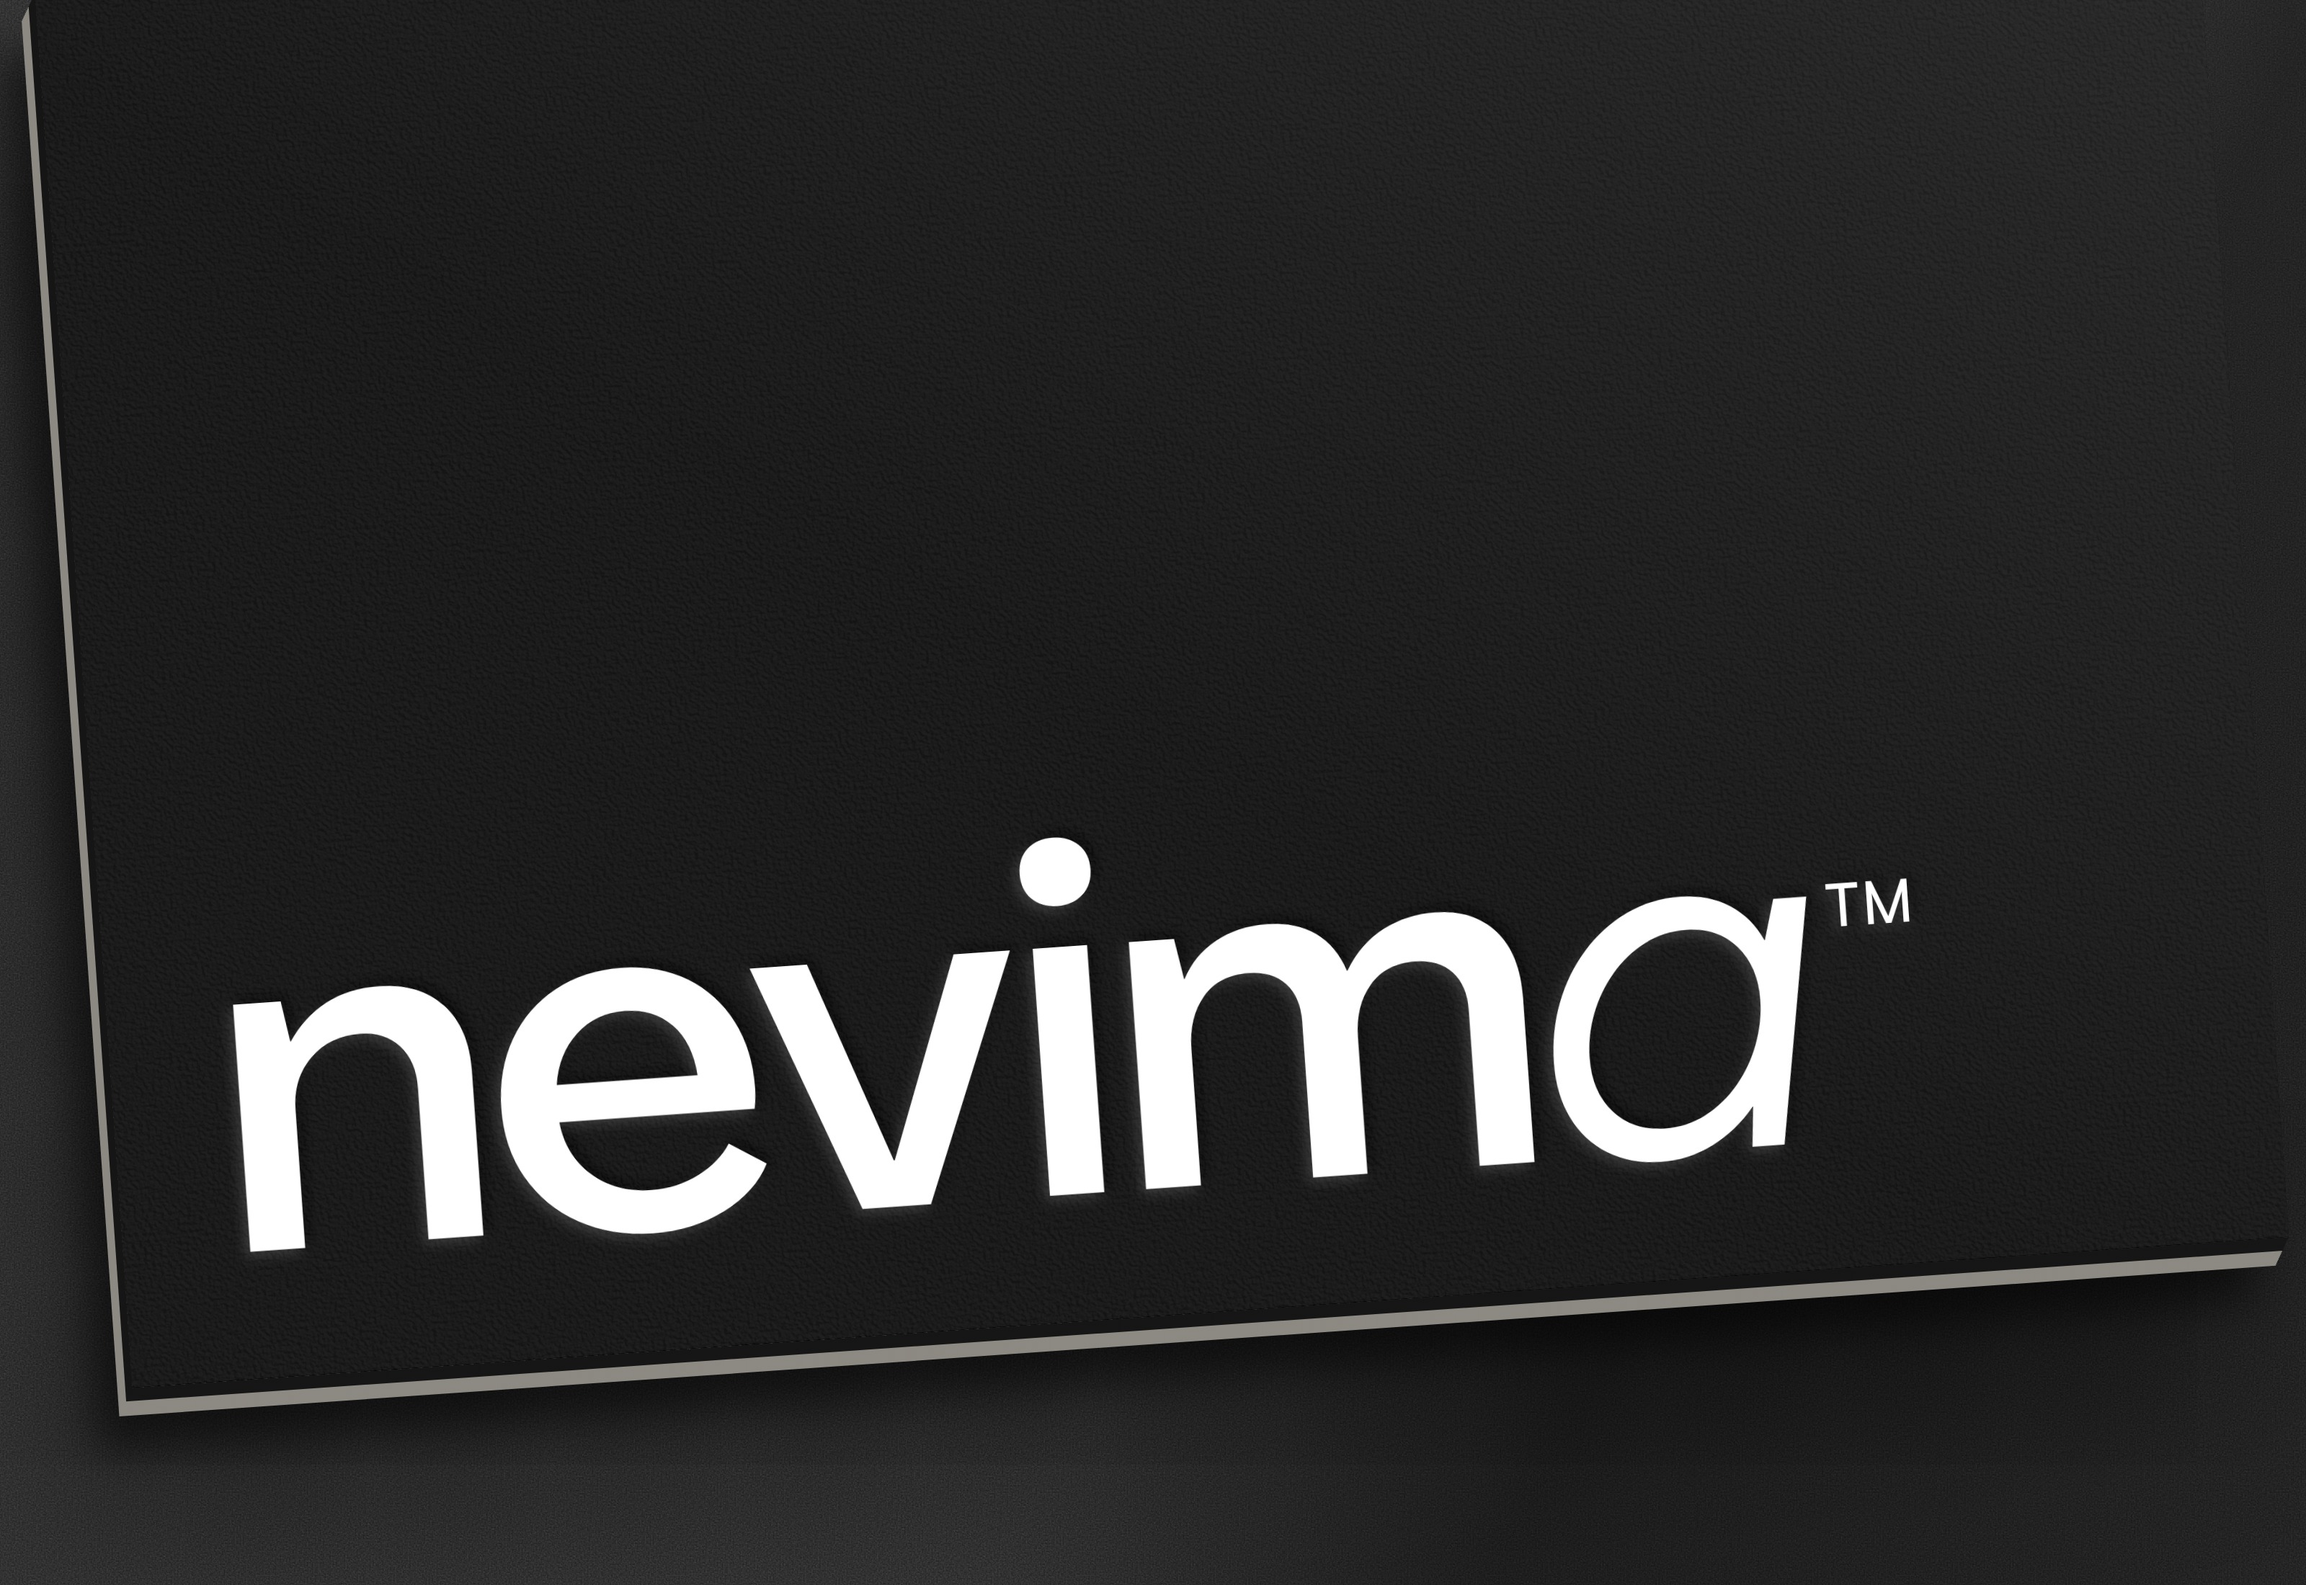
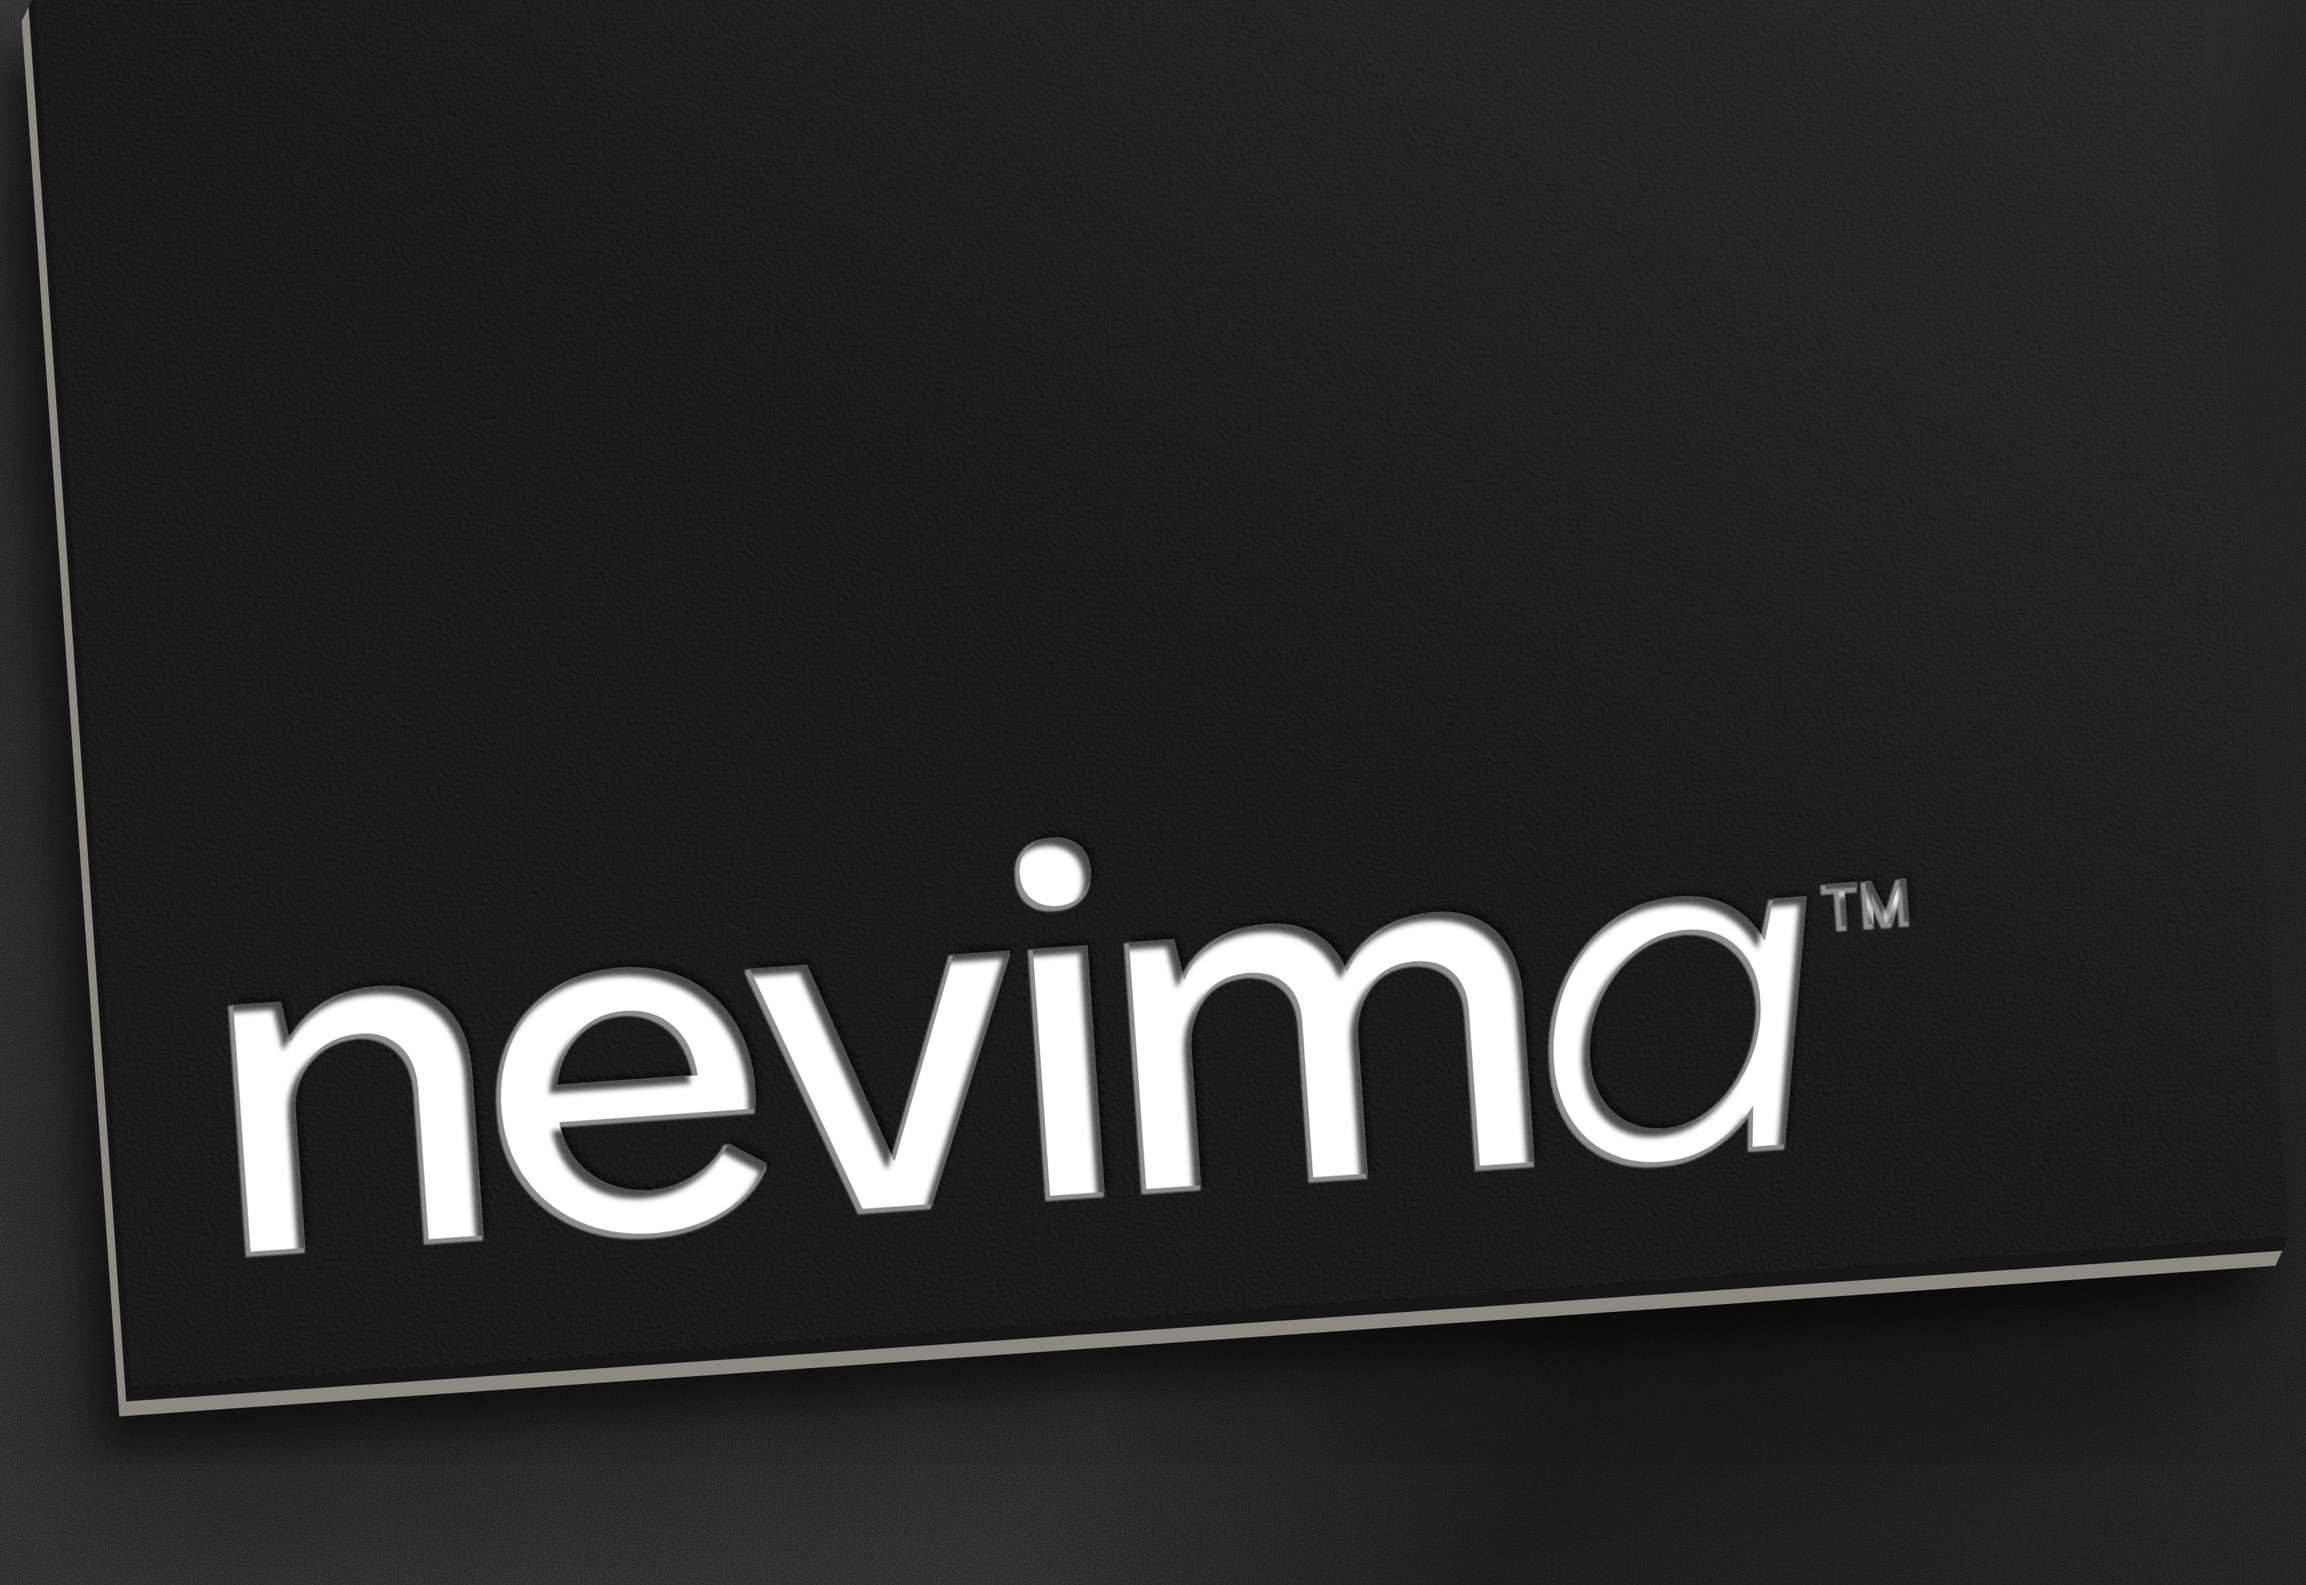
Business cards: make the deboss on the front clearly visible
A soft shadow cast inside the letters along their top and right edges and a
lit lip along the bottom and left; the face of the letters stays pure white.

Claude-Session: https://claude.ai/code/session_01TYPTd4reWKuLNtUUuhdgi2

Changed region(s): [[0.0938, 0.5255, 0.8438, 0.8036]]

diff --git a/cartoes/cartao.js b/cartoes/cartao.js
@@ -47,26 +47,46 @@
   const tm = () =>
     `<text x="${TM.x}" y="${TM.base}" font-family="Satoshi, sans-serif" font-weight="500" font-size="${TM.size}" letter-spacing="2">TM</text>`;
 
-  /* O deboss. As letras são branco puro, sem sombra nem textura por cima
-     (utilizador, 2026-11-14): o relevo lê-se só no papel à volta delas, que
-     desce para a letra. A luz vem de cima e da direita (como na fotografia
-     da Antora): o rebordo de cima e da direita fica mais escuro, o de baixo
-     e da esquerda apanha um brilho mínimo. */
+  /* O deboss. A face das letras é branco puro (utilizador, 2026-11-14) e o
+     relevo tem de se ver (utilizador, 2026-11-15). A luz vem de cima e da
+     direita, como na fotografia da Antora:
+     - à volta da letra, o papel desce para ela e a rampa do lado de cima e
+       da direita escurece (num papel preto quase não se vê);
+     - a aresta de baixo e da esquerda, onde o papel dobra, apanha um fio de
+       luz nítido;
+     - dentro da letra, só o rebordo de cima e da direita leva a sombra fina
+       que a parede projeta no fundo; o resto da face fica branco puro. */
   const DEBOSS_FILTER = `
     <filter id="deboss" x="-4%" y="-25%" width="108%" height="150%" color-interpolation-filters="sRGB">
-      <feGaussianBlur in="SourceAlpha" stdDeviation="0.24" result="ab"/>
-      <feOffset in="ab" dx="0.18" dy="-0.18" result="ab1"/>
-      <feComposite in="ab1" in2="SourceAlpha" operator="out" result="rebordoEscA"/>
-      <feFlood flood-color="#000" flood-opacity="0.95"/>
-      <feComposite in2="rebordoEscA" operator="in" result="rebordoEsc"/>
-      <feOffset in="ab" dx="-0.16" dy="0.16" result="ab2"/>
-      <feComposite in="ab2" in2="SourceAlpha" operator="out" result="rebordoLuzA"/>
-      <feFlood flood-color="#fff" flood-opacity="0.16"/>
-      <feComposite in2="rebordoLuzA" operator="in" result="rebordoLuz"/>
+      <feGaussianBlur in="SourceAlpha" stdDeviation="0.16" result="ab"/>
+      <feOffset in="ab" dx="-0.12" dy="0.12" result="rampaLuz1"/>
+      <feComposite in="rampaLuz1" in2="SourceAlpha" operator="out" result="rampaLuzA"/>
+      <feFlood flood-color="#fff" flood-opacity="0.14"/>
+      <feComposite in2="rampaLuzA" operator="in" result="rampaLuz"/>
+      <feOffset in="ab" dx="0.12" dy="-0.12" result="rampaSomb1"/>
+      <feComposite in="rampaSomb1" in2="SourceAlpha" operator="out" result="rampaSombA"/>
+      <feFlood flood-color="#000"/>
+      <feComposite in2="rampaSombA" operator="in" result="rampaSomb"/>
+
+      <feMorphology in="SourceAlpha" operator="dilate" radius="0.09" result="dil"/>
+      <feOffset in="dil" dx="-0.12" dy="0.12" result="dil0"/>
+      <feGaussianBlur in="dil0" stdDeviation="0.03" result="dil1"/>
+      <feComposite in="dil1" in2="SourceAlpha" operator="out" result="fioA"/>
+      <feFlood flood-color="#a6a6a6" flood-opacity="0.8"/>
+      <feComposite in2="fioA" operator="in" result="fio"/>
+
+      <feComponentTransfer in="SourceAlpha" result="fora"><feFuncA type="table" tableValues="1 0"/></feComponentTransfer>
+      <feOffset in="fora" dx="-0.3" dy="0.32" result="f1"/>
+      <feGaussianBlur in="f1" stdDeviation="0.1" result="f1b"/>
+      <feComposite in="f1b" in2="SourceAlpha" operator="in" result="paredeA"/>
+      <feFlood flood-color="#000" flood-opacity="0.72"/>
+      <feComposite in2="paredeA" operator="in" result="parede"/>
+
       <feMerge>
-        <feMergeNode in="rebordoEsc"/>
-        <feMergeNode in="rebordoLuz"/>
+        <feMergeNode in="rampaSomb"/>
+        <feMergeNode in="fio"/>
         <feMergeNode in="SourceGraphic"/>
+        <feMergeNode in="parede"/>
       </feMerge>
     </filter>`;
 

diff --git a/docs/business-card-decisions.md b/docs/business-card-decisions.md
@@ -12,6 +12,10 @@ Os cartões do António e do Emanuel. A fonte é `cartoes/` (`cartao.js` desenha
     - Leva o **™**, em Satoshi 500, a seguir ao "a", com o topo na altura de x. O ™ também vai na chapa.
     - As letras são **branco puro**: saíram a sombra interior, o brilho e as manchas de tinta. O relevo lê-se só no papel à volta das letras.
     - Nos mockups, a sombra diagonal da cena passa a ficar só no fundo, para não acinzentar o branco.
+  - **3.ª ronda (utilizador, 2026-11-15: "garante que esse efeito é visível"):** só com os rebordos à volta, o relevo quase não se via no papel preto. Agora lê-se por dois sinais, os de um deboss real com a luz a vir de cima e da direita:
+    - a **sombra que a parede projeta para dentro da letra**, ao longo do rebordo de cima e da direita (0,3 mm, macia);
+    - um **fio de luz cinzento na parede de baixo e da esquerda**, que está virada para a luz.
+  - O resto da face continua branco puro, sem manchas nem textura. Tirou-se o halo de luz à volta das letras, que se lia como brilho e não como relevo. Os valores estão em `DEBOSS_FILTER`, em `cartoes/cartao.js`.
 - **Verso (utilizador):** fundo branco com grãos pretos (a referência Duna, invertida). O grão é leve em todo o cartão e mais denso e irregular no canto superior direito, com uma risca curva e subtil nesse canto, desfocada pelo próprio granulado. À volta do "n", em baixo à direita, o grão rareia aos poucos, até 85% menos junto ao símbolo, para que se leia limpo (utilizador, 2026-11-14). O desenho do grão é fixo (semente em `cartao.js`): é igual nos dois cartões e sai igual sempre que se gera.
 - **Informações (utilizador: a disposição da Antora):**
   - O "n" fica em baixo à direita. Só se usam as letras do site.
